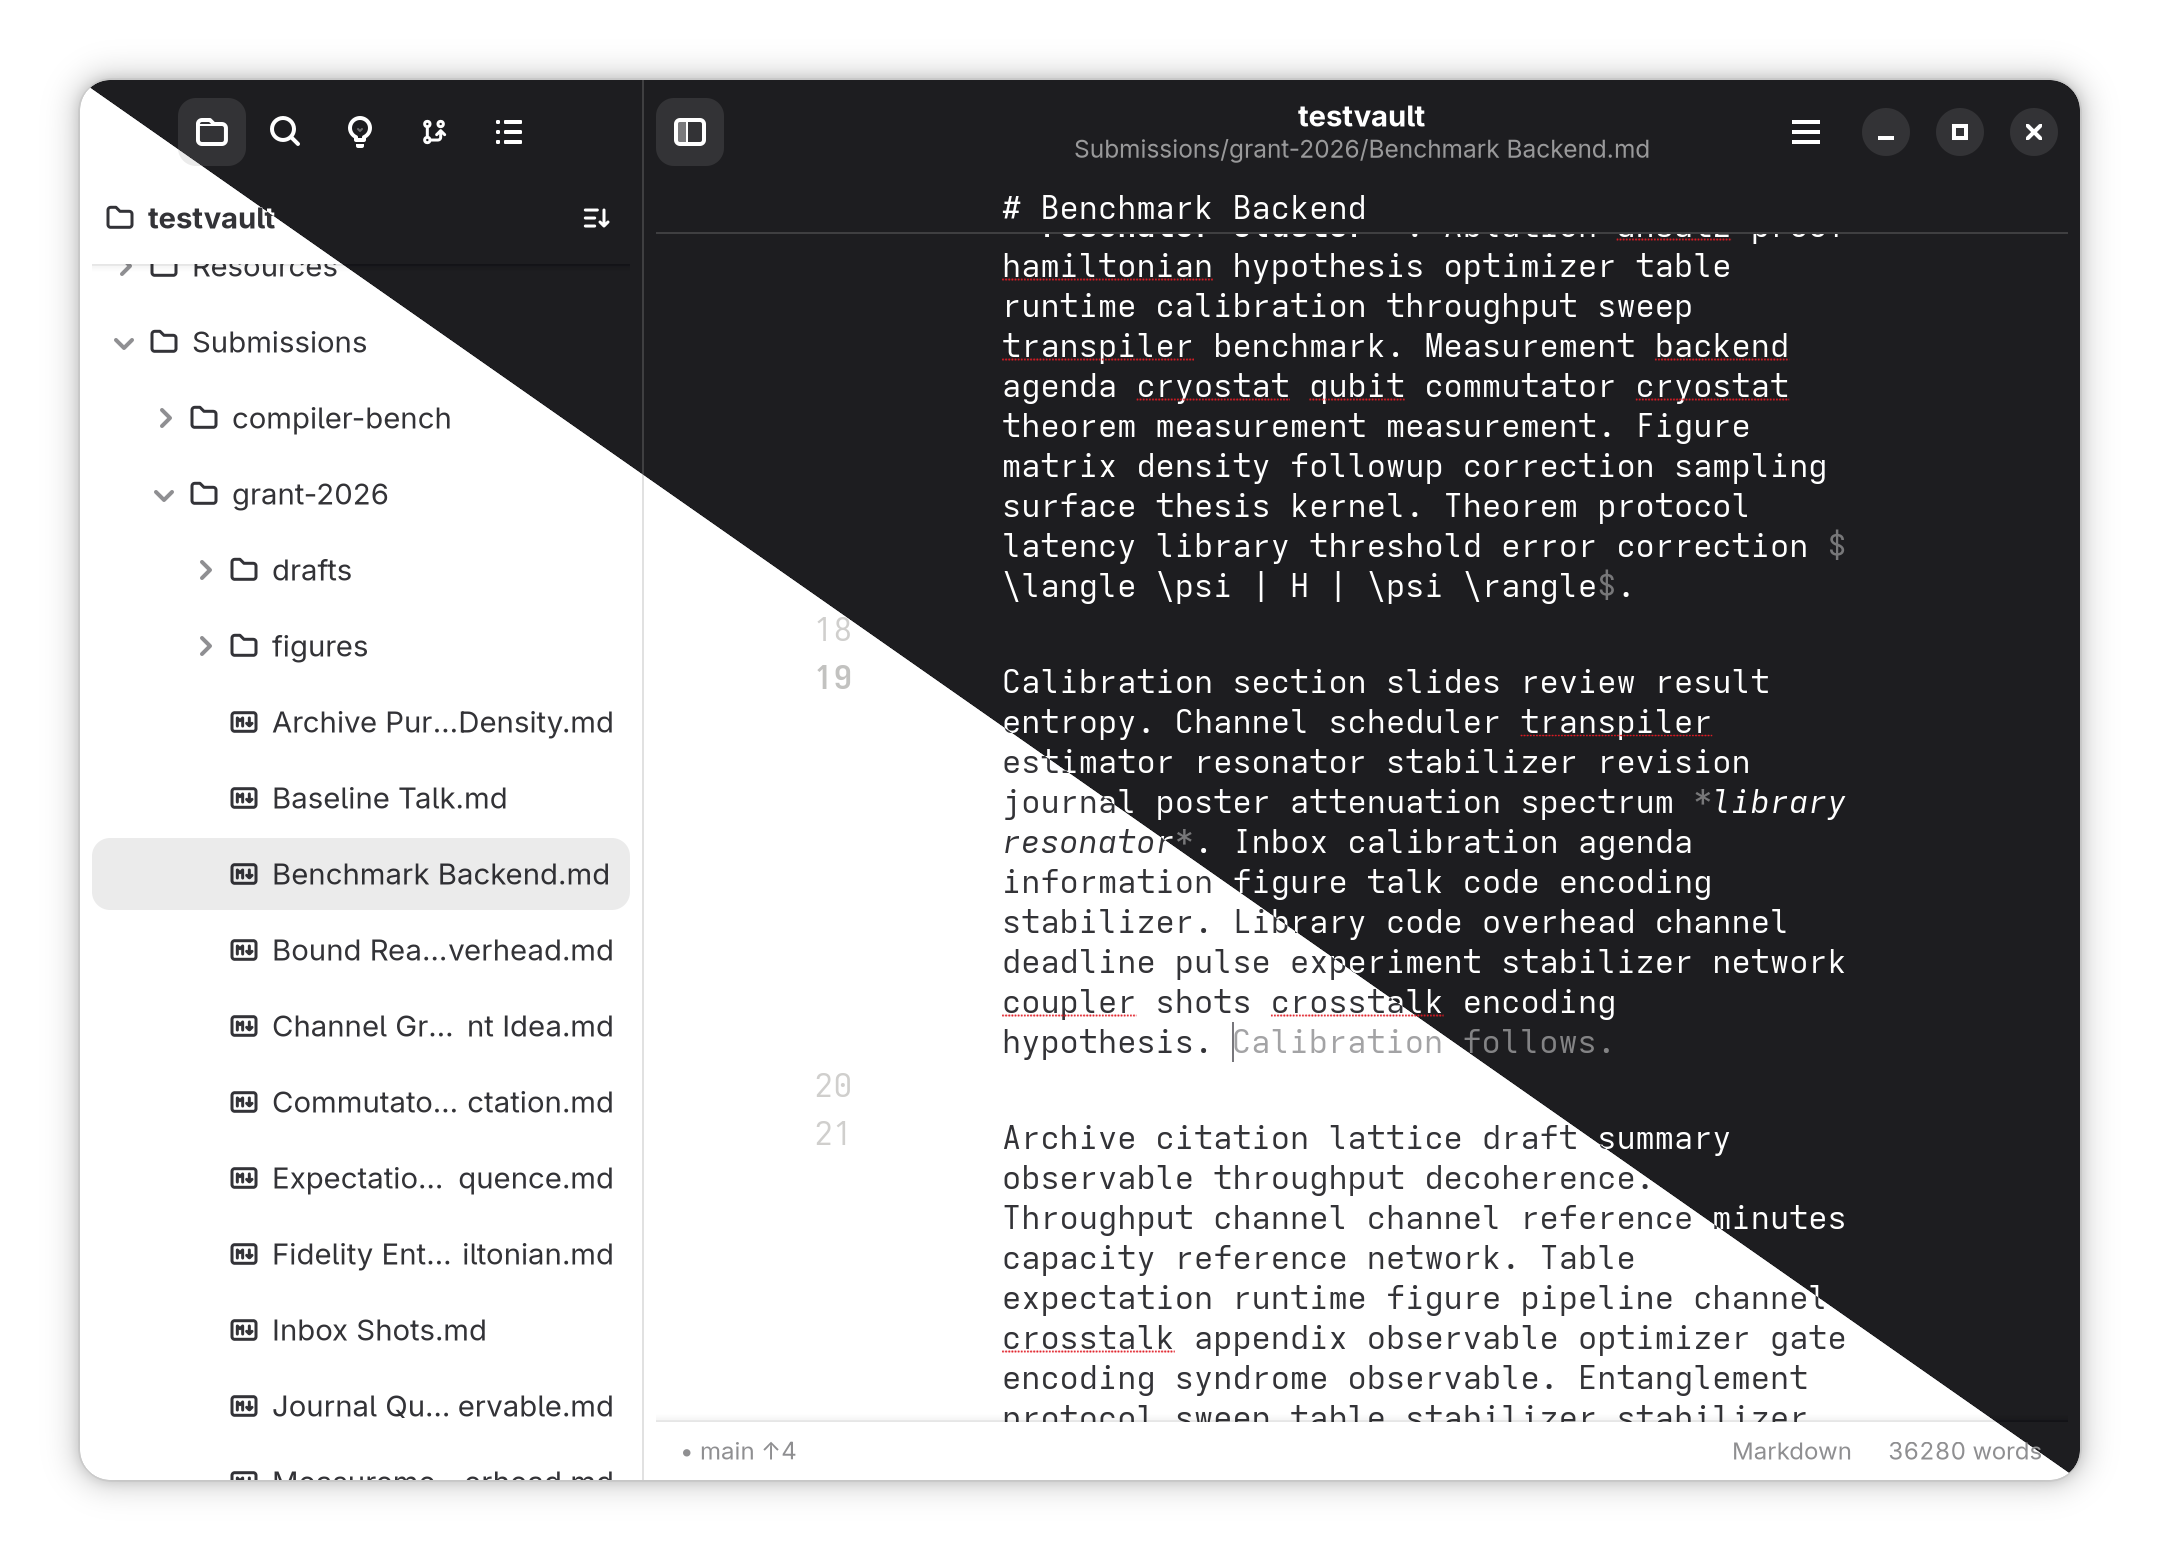
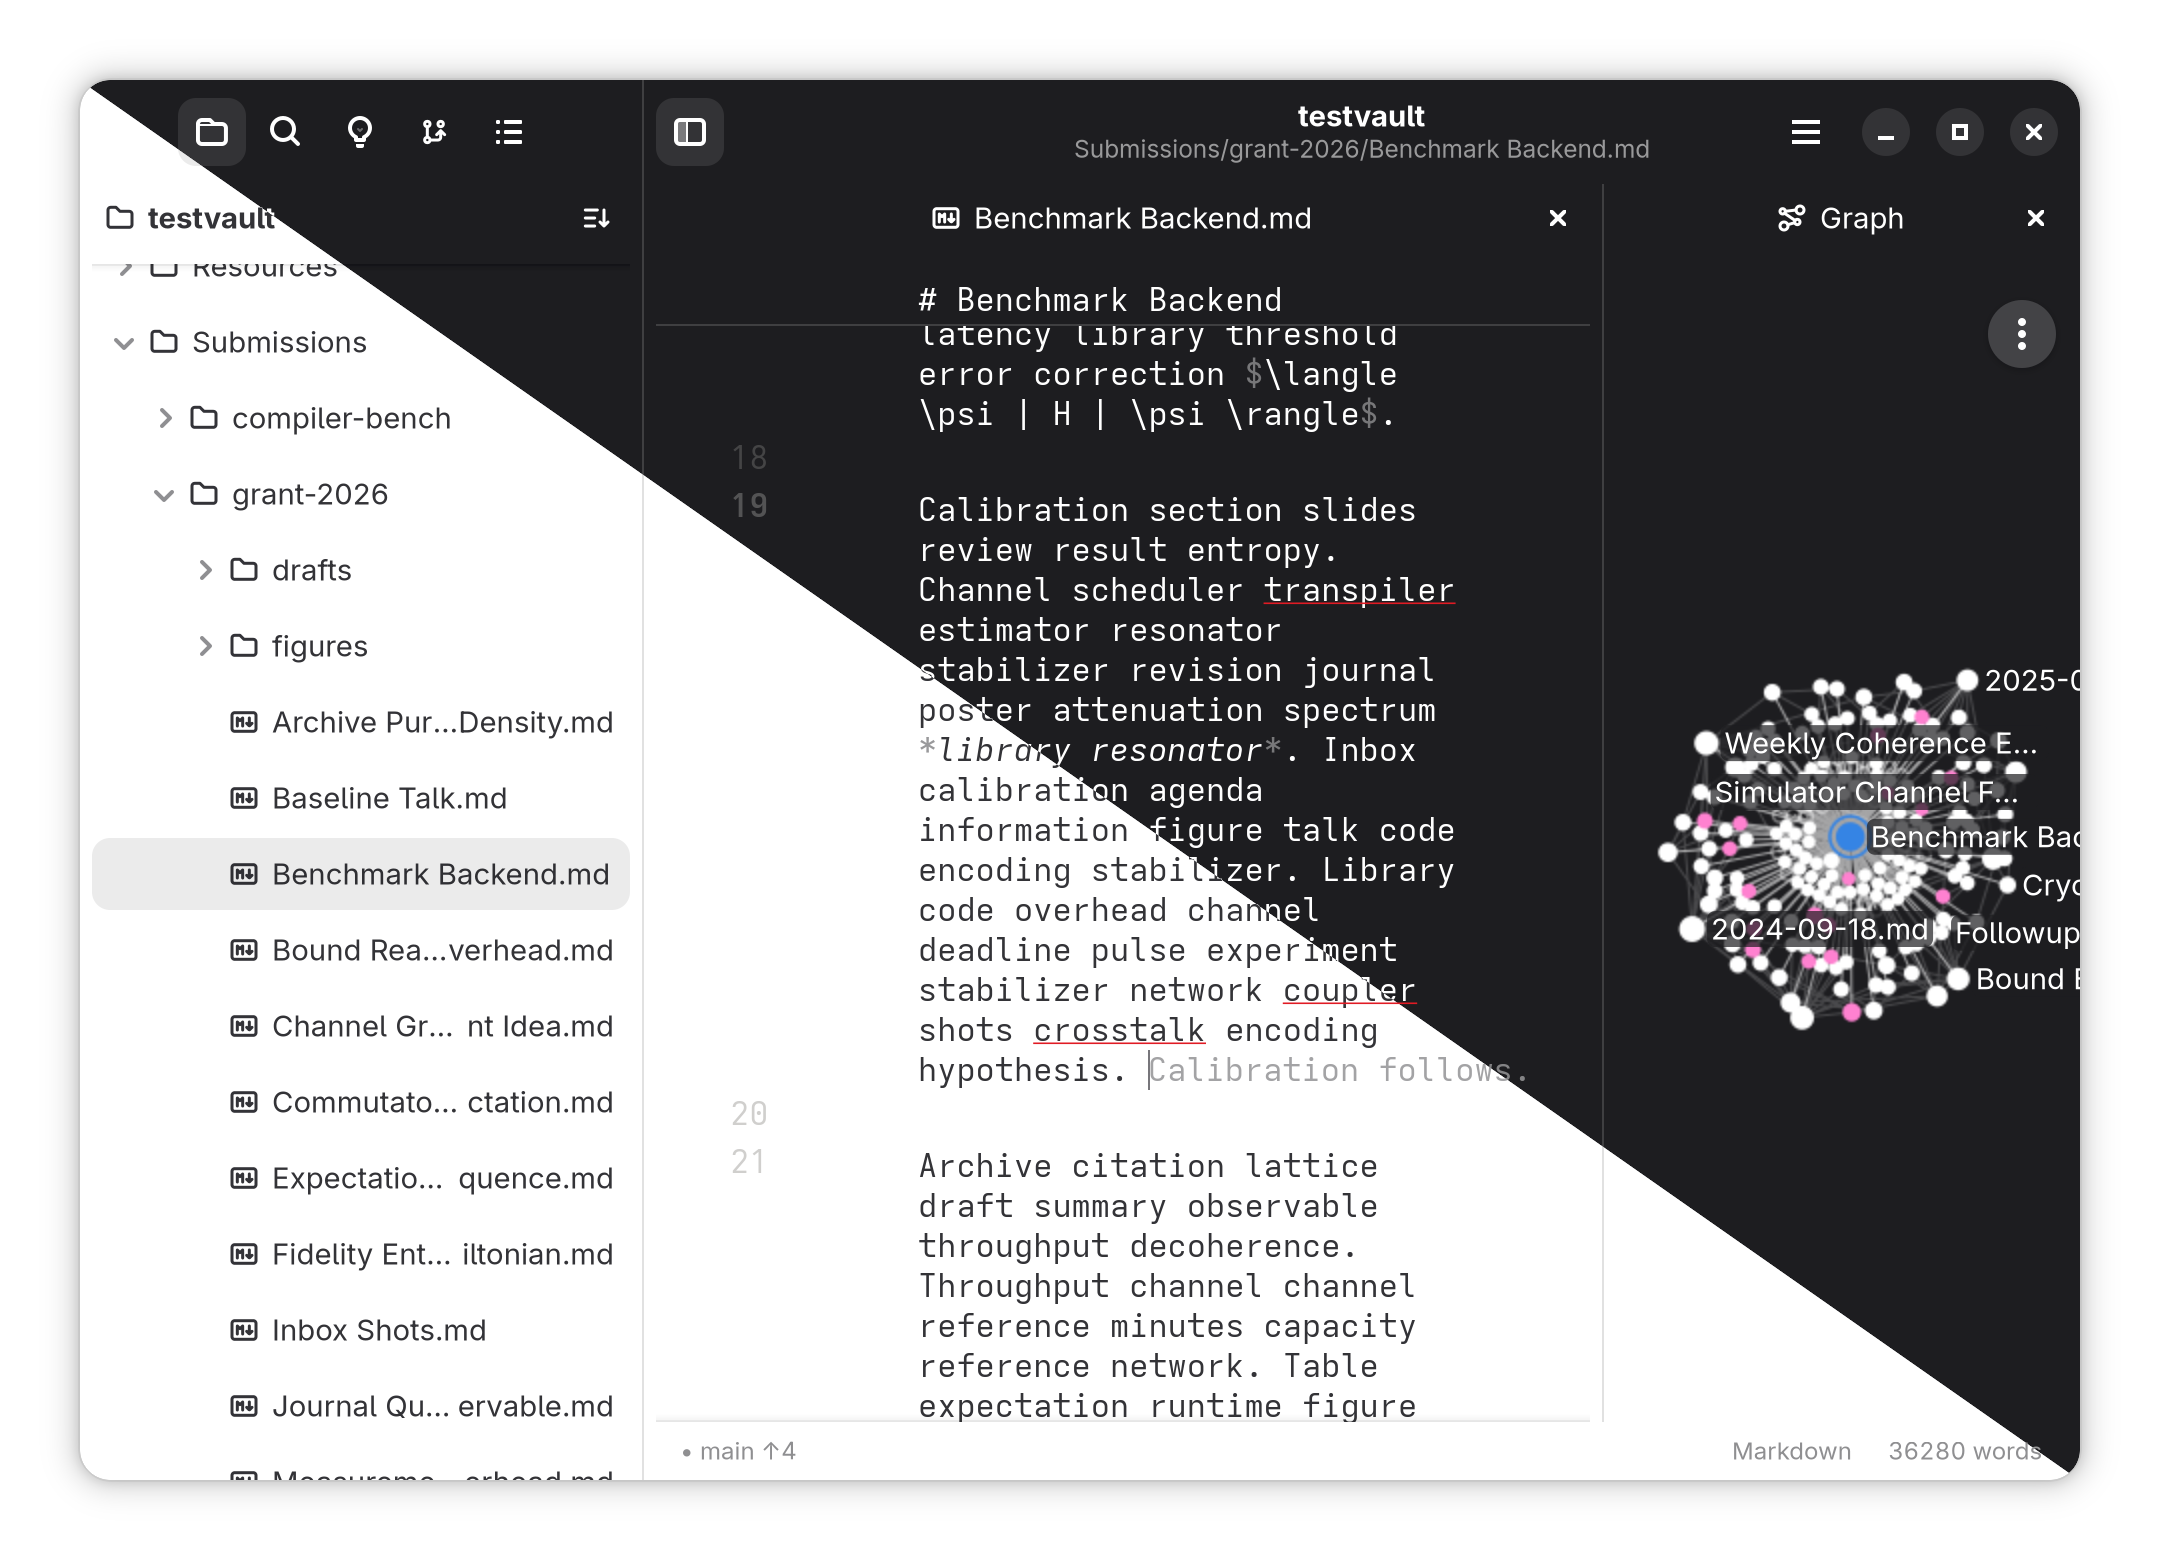
Show the graph of the note's links in the right third of the README's first screenshot, beside the note and its suggestion

Changed region(s): [[0.4032, 0.1231, 0.9616, 0.9231], [0.8995, 0.1846, 0.9616, 0.2462]]

diff --git a/apps/gtk/src/bench/shots.rs b/apps/gtk/src/bench/shots.rs
@@ -96,7 +96,8 @@ async fn prepare(app: &Rc<App>) {
     );
 }
 
-/// Scene 1: the Files tree and a note with ghost text.
+/// Scene 1: the Files tree, a note with ghost text and, in the right third, the graph of the
+/// files it links to or from, the note lit.
 async fn scene_files(app: &Rc<App>, shot: &Shot) {
     let Some(tree) = app.tree.get() else {
         return println!("bench shot no_tree");
@@ -114,6 +115,21 @@ async fn scene_files(app: &Rc<App>, shot: &Shot) {
     }
     let note = "Submissions/grant-2026/Benchmark Backend.md";
     open_all(app, &[note]).await;
+    // Show Graph opens on the whole vault, the note lit as the file in front, and the graph goes
+    // to the note's right, a third of the documents' width. Show Whole Vault unchecked there
+    // leaves the note and the files it links to or from, which read at that width.
+    let _ = WidgetExt::activate_action(&app.window, "win.graph", None);
+    let Some(graph) = app.graphs().into_iter().next() else {
+        return println!("bench shot no_graph");
+    };
+    app.split_page(&pane_of(app, note), Side::Right, &graph.page);
+    glib::timeout_future(Duration::from_millis(300)).await;
+    divide(&pane_of(app, note), 2.0 / 3.0);
+    let Some(right) = app.pane_of(&graph.page) else {
+        return println!("bench shot no_graph_pane");
+    };
+    focus(app, &right).await;
+    let _ = WidgetExt::activate_action(&app.window, "win.graph-all", None);
     // The open note's row lit and on screen, as Reveal in Sidebar leaves it: the tree's selection
     // follows the tab but never scrolls to it.
     until("row", 10_000, || {
@@ -162,6 +178,13 @@ async fn scene_files(app: &Rc<App>, shot: &Shot) {
         }
         until("ghost", 10_000, || {
             tab.ghost_view().and_then(|v| v.ghost()).is_some()
+        })
+        .await;
+        // The graph round the note, its layout settled, the note's node on the canvas and the
+        // last picture asked, in this half's colours, shown.
+        until("graph", 120_000, || {
+            let (asked, shown) = graph.serials();
+            !graph.all() && graph.laid_out() && graph.front_shown() && asked == shown
         })
         .await;
         app.show_chrome();

diff --git a/README.md b/README.md
@@ -42,7 +42,7 @@ See the [device support](#device-support) for compatibility.
 
 ## Screenshots
 
-![A note with an inline suggestion beside the vault's files](docs/screenshot-1.png)
+![A note with an inline suggestion between the vault's files and the graph of its links](docs/screenshot-1.png)
 
 ![The Git pane beside a file's changes since it was staged](docs/screenshot-2.png)
 
